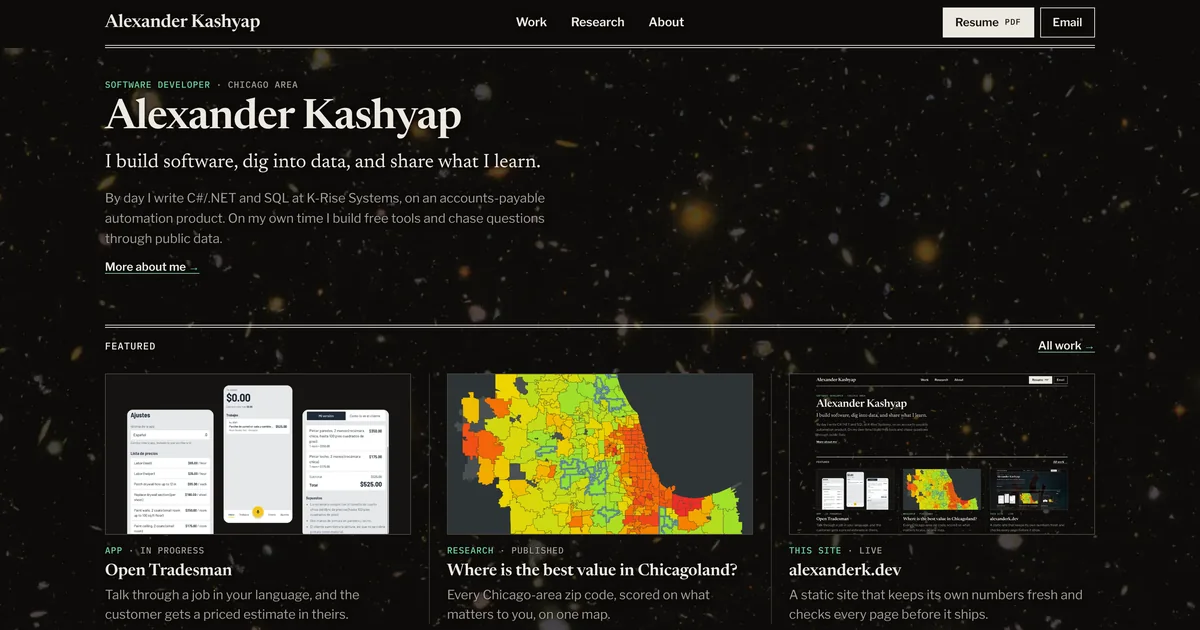
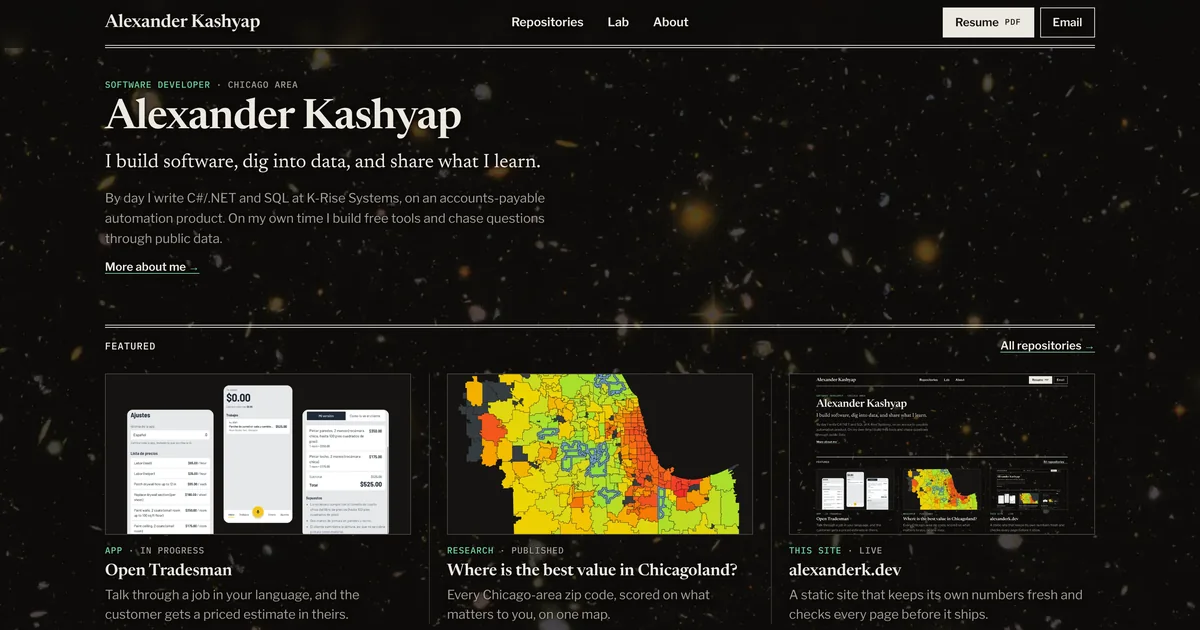
Rename the Work and Research tabs to Repositories and Lab
Lab will hold small games and experiments as well as the research maps, so
its head and description now say so. The addresses stay /projects/ and
/research/, so existing links keep working. The narrowest phones and small
tablets get slightly tighter header spacing so the longer "Repositories"
still fits on one row. Regenerates the default link preview and the picture
of this site, which show the tab names.

Claude-Session: https://claude.ai/code/session_01EyWja9GQ2vc1y2HRMotNQb

diff --git a/src/styles/site.css b/src/styles/site.css
@@ -406,7 +406,7 @@ main .hv { padding-block: var(--space-5); }
 /* ---------- 10. Wider screens and phones ---------- */
 /* Phones (the narrowest): the compact header's links get a little smaller */
 @media (max-width: 379.98px) {
-  .topbar-links, .topbar .sections, .topbar .nav-actions { gap: 0 12px; }
+  .topbar-links, .topbar .sections, .topbar .nav-actions { gap: 0 10px; }
   .topbar .sections a, .topbar .nav-actions .cta { font-size: 0.875rem; }
 }
 
@@ -455,10 +455,12 @@ main .hv { padding-block: var(--space-5); }
   .site-footer ul { flex-direction: column; align-items: flex-start; }
 }
 
-/* Small tablets: a little tighter, so the name, nav and buttons fit one row */
+/* Small tablets: a little tighter, so the name, nav and buttons fit one row
+   (the "PDF" tag on the Resume button drops out here) */
 @media (min-width: 720px) and (max-width: 959.98px) {
-  .brand { font-size: 1.375rem; }
+  .brand { font-size: 1.25rem; }
   .topbar .sections { gap: 0 20px; }
+  .topbar .nav-actions .mono { display: none; }
 }
 
 /* Desktop: the content lines up with the header's edges, up to 1368px wide */
